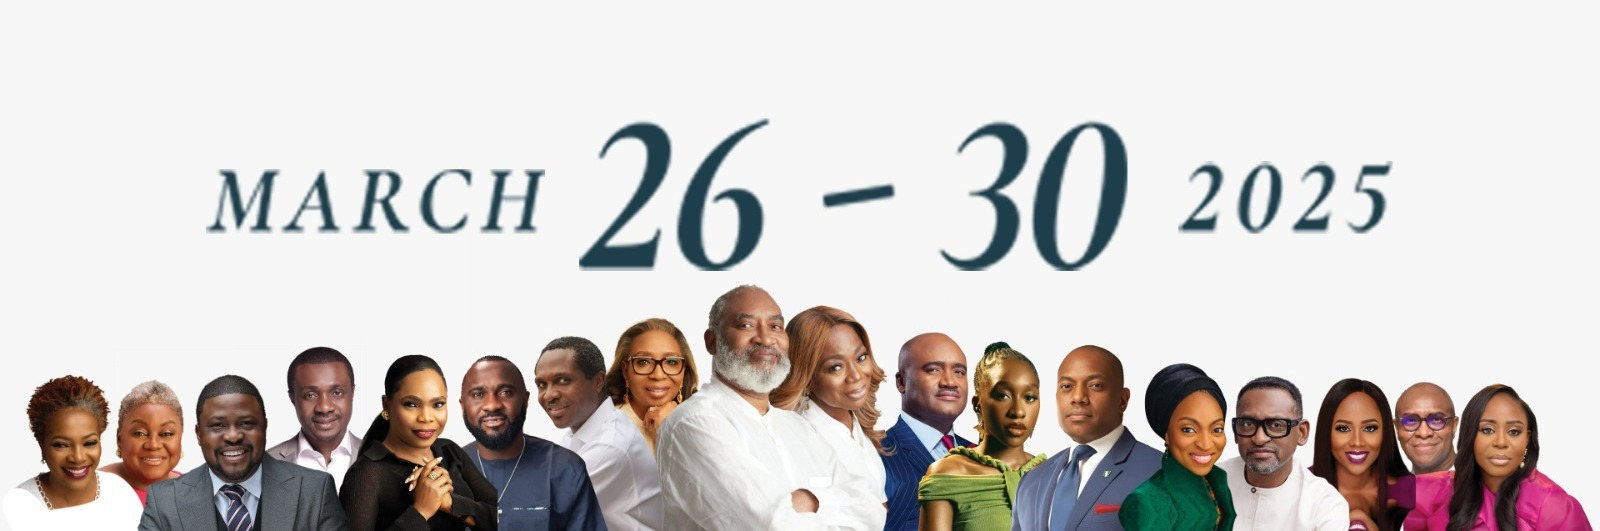
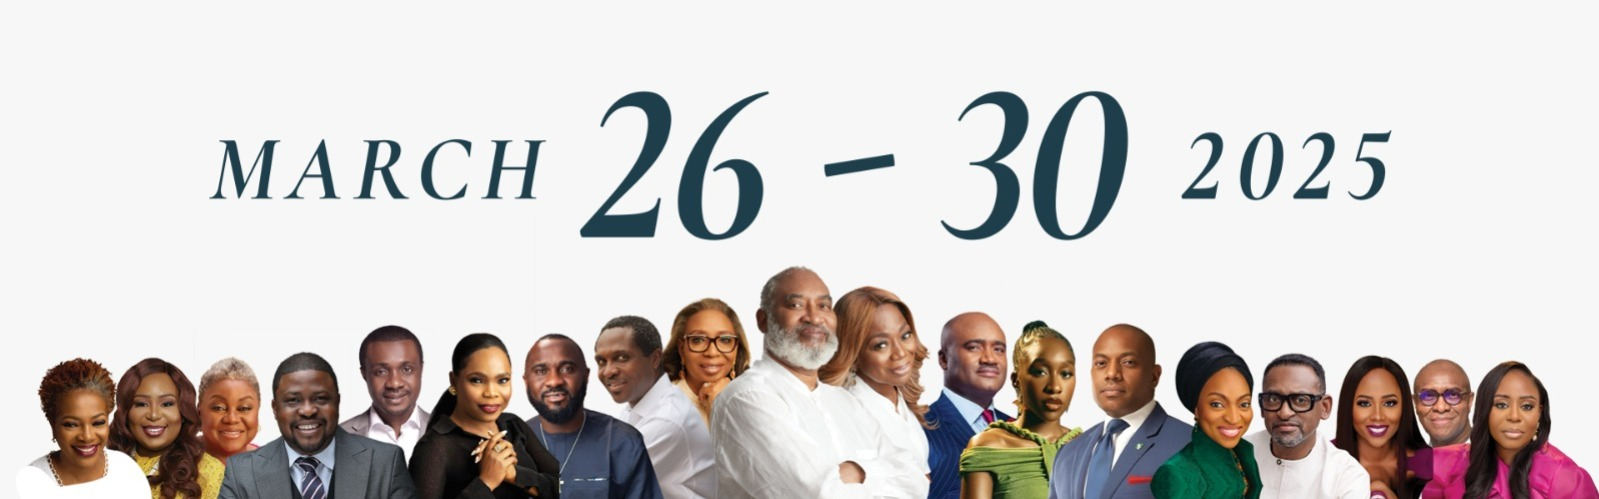
final updates

diff --git a/src/utils/data.tsx b/src/utils/data.tsx
@@ -58,7 +58,7 @@ export const scheduleArray = [
     time: "6:00",
     topic: "Leadership Summit ",
     speaker1: "Tonye Cole",
-    speaker2: "Dr Jumoke Oduwole",
+    speaker2: "Dr. Jumoke Oduwole",
     speaker3: "Pastor Yemi Adefarasin",
     speaker4: "Fela Durotoye",
     speaker5: "Pastor Yemi Davids",
@@ -91,7 +91,7 @@ export const scheduleArray = [
     time: "9:30",
     topic: "Charge for the Next 40 Years ",
     speaker1: "Pastor Wale Adefarasin",
-    speaker2: "Nathaniel Bassey ",
+    speaker2: "Pastor Nathaniel Bassey ",
     gmt: "am",
     date: "March 30th",
   },
@@ -100,7 +100,7 @@ export const scheduleArray = [
 export const ministers = [
   {
     name: "WALE & LAOLU ADEFARASIN",
-    profile_name: "PASTOR WALE & LAOLU ADEFARASIN",
+    profile_name: "PASTORS WALE & LAOLU ADEFARASIN",
     title: "Host",
     bio: "Pastor Wale Adefarasin serves as the General Overseer of Guiding Light Assembly (GLA), which recently celebrated its 40th anniversary. With headquarters in Lagos, Nigeria, he provides spiritual leadership to the ministry alongside his wife, Pastor Olaolu Adefarasin, who serves as a pastor within the same assembly. Pastor Olaolu, called to the Nigerian Bar in 1981, practiced briefly with the law firm of Impey & Coker before answering the call to full-time ministry. Led by the Holy Spirit, she established Morning Glory, a women's prayer ministry that meets every Tuesday morning at 7am and has been active for over twenty years. This ministry operates with a mandate to intercede for Nigeria, children, families, ministries, and individual lives. She also leads OASIS, the GLA women's ministry, which organizes colloquiums, retreats, and activities designed to help women address real-life challenges, particularly those unique to women. Her broader influence extends to her roles as Chair on the board of the Interdenominational Pastor's Wife Forum (IPWF) and as a board member of the Woodhall Capital Foundation. Pastor Wale is known for his leadership and is the author of 'The Succession Crisis in Nigeria.' Together, the Adefarasins have built a ministry focused on spiritual growth and community impact. Their family includes three children and two grandchildren, reflecting their commitment to both ministry and family values.",
     img: img16,
@@ -121,7 +121,7 @@ export const ministers = [
   },
   {
     name: "NATHANIEL BASSEY",
-    profile_name: "NATHANIEL BASSEY",
+    profile_name: "PASTOR NATHANIEL BASSEY",
     title: "Ministering",
     bio: "Pastor Nathaniel Bassey is a renowned Gospel Music Minister from Akwa Ibom State, Nigeria, whose multifaceted talents encompass being a recording artist, trumpet player, singer/songwriter, and music producer. He currently serves as the Pastor of THE OASIS, the Youth Church of RCCG, The King's Court in Lagos, Nigeria.Before answering God's call to full-time music ministry, Pastor Nath built a solid musical foundation as bandleader of the Steve Rhodes Jazz Orchestra and as a member of the Spectrum 4 jazz quintet, among other musical collaborations. At the core of his ministry is the belief that music serves as a fundamental tool in the praise and worship of God, creating a divine connection between God and His people. Through his music, he expresses profound love for God while leading countless individuals to Christ through concerts, crusades, church events, and various kingdom gatherings. His ministry extends beyond performance to mentorship, as he regularly speaks at worship and music seminars globally. Pastor Nath is passionate about inspiring the next generation of worship leaders and gospel musicians, emphasizing his concept of a 'TOTAL AND COMPLETE' music minister balanced in SPIRIT, SKILL, and CHARACTER. His prophetic trumpet sound has become his signature, stirring revival and igniting passion for holiness, godliness, and heartfelt worship throughout the body of Christ. Since his debut album 'ELOHIM' recorded in 2008 in Cape Town, South Africa, Pastor Bassey has released multiple influential projects: 'THE SON OF GOD' (2014), 'THIS GOD IS TOO GOOD' (2016), 'REVIVAL FLAMES' (2017), 'JESUS: THE RESURRECTION AND THE LIFE' (2018), 'THE KING IS COMING' (2019), and 'HALLELUJAH AGAIN' (2021). His most recent work, 'THE NAMES OF GOD,' a 15-track album of Prophetic Chants, High Praise, Adoration, Psalms, Hymns, and Spiritual songs recorded live in November 2021, has become a powerful worship resource for believers worldwide. In June 2017, he initiated the 'HALLELUJAH CHALLENGE,' an online praise and prayer gathering that continues to attract thousands of global participants. Pastor Nathaniel Bassey resides in Lagos, Nigeria, with his wife and children.",
     img: img8,
@@ -163,7 +163,7 @@ export const ministers = [
   },
   {
     name: "JUMOKE ODUWOLE",
-    profile_name: "DOCTOR JUMOKE ODUWOLE",
+    profile_name: "DR. JUMOKE ODUWOLE",
     title: "Speaking",
     bio: "Dr. Jumoke Oduwole is a distinguished academic, policy advisor, and advocate currently serving as a Senior Fellow at the Harvard Kennedy School of Government's Mossavar-Rahmani Center for Business and Government. From August 2019 to May 2023, she served as Special Adviser to the President of Nigeria on Ease of Doing Business, following her role as Senior Special Assistant to the President on Industry, Trade & Investment in the Office of the Vice President. Under her leadership, Nigeria achieved a remarkable 39-place improvement in the World Bank's Doing Business Report over a three-year period. Dr. Oduwole is on leave from her position as Senior Lecturer in the Department of Jurisprudence and International Law at the University of Lagos. Her expertise has earned her recognition as a global thought leader, including being the sole African nominee to the World Economic Forum's Global Future Council on Trade and Investment in 2016. Before entering academia, she built a solid career in finance, leading a corporate banking unit within the telecommunications sector at Guaranty Trust Bank Plc and working as an investment banker with FCMB Capital Markets Ltd from 2000 to 2003. Her academic credentials include a law degree from the University of Lagos (1998), an LL.M. in commercial law from Cambridge University as a DFID-Cambridge Commonwealth Trust Scholar (2000), and both a master's in International Legal Studies and a doctorate in International Trade and Development from Stanford Law School. Dr. Oduwole's board service includes positions with Ecobank Nigeria Plc, Positive Action for Treatment Access, and the 'Know Your Constitution' Initiative. She currently serves as a Trustee of the Mandela Institute for Development Studies and is a Tutu Fellow of the African Leadership Institute. She is married to Tunde Oduwole and is the mother of two children.",
     img: img14,
@@ -198,7 +198,7 @@ export const ministers = [
   },
   {
     name: "CHINGTOK ISHAKU",
-    profile_name: "CHINGTOK ISHAKU",
+    profile_name: "PASTOR CHINGTOK ISHAKU",
     title: "Speaking",
     bio: "Apostle Chingtok Ishaku is the Founder and Senior Pastor of The God–Life Assembly International, which has its headquarters in Jos, Plateau State and branches in 6 other cities across Nigeria. He is an astute teacher of the Bible whose infallible passion lies in his desire “to see the body of Christ enter into the fullness of the truth of the Gospel and become accurate witnesses of the full stature of Jesus, as we take the kingdoms of this world and submit them to our God and his Christ”. His deepest desire is to raise men and women who have genuine fellowship with God and represent Him accurately through their obedience in lifestyle, in ministry, in character, in business, in career, in response to the Holy Spirit and in the out-working of His power. He founded the Pathfinders School of Ministry and Pathfinders School of Leadership which aim at raising believers who will dare to walk away from the norm to find their God-ordained paths and modes of operation in ministry and in every other sphere of their lives. Pastor Chingtok has spearheaded projects like Project 7000, an online call to prayer for 7,000 Nigerians; Kingdom Advance; The Whole Truth (Lagos, Jos, Abuja, Port Harcourt, Minna, Abakiliki); Zaria Praise Festival, The God – Life Assembly Annual Camp Meeting, and The New Nation Conference (which is hinged on the “If my People Prayer Tour” by Pastor Chris Delvan, aimed at bringing prophecies about Nigeria to pass). Pastor Chingtok is submitted to the ministry and leadership of Pastor Chris Delvan Gwamna who is the Founder and Senior Pastor of The King of All Kings Church of The Capstone. Together, they have run projects in various parts of Nigeria, whose focus is to exalt Christ and His lordship over Nigeria and all the nations of the earth; and to conform men to the image of Jesus, bringing worship to God in everything they do. Pastor Chingtok is also a deep worshipper and psalmist with seven albums in his library titled: The Worship Expressions Series which contains True of You (2011), The Eternal God (2016), The Living Word (2018), Our God Reigns (2018), Zuciyata (2019), Overflow (2022), and The Bridge (2022). He insists on God’s pattern of building Church into a family according to Scripture as seen in the Acts of the Apostles and believes that everyone God sends to him is his family. He is married to Pastor Sarah Chingtok, and they are blessed with 3 children.",
     img: img12,
@@ -306,3 +306,9 @@ export const linkArray = [
   { url: "CFNbivZ0_jo" },
   { url: "hQq4w7O3ORA" },
 ];
+
+export const headerNav = [
+  {name: 'Schedule'},
+  {name: 'Ministers'},
+  {name: 'Gallery'},
+]

diff --git a/src/components/Layout/Header/index.tsx b/src/components/Layout/Header/index.tsx
@@ -1,9 +1,129 @@
-import React from 'react'
+import React, { useEffect, useState } from "react";
+import logo from "../../../assets/icons/logo.png";
+import menu_icon from "../../../assets/icons/menu.png";
+import { headerNav } from "../../../utils/data";
+import cancel_icon from "../../../assets/icons/cancell.png";
 
-const Header = () => {
+type HeaderProps = {
+  ScheduleClick: () => void;
+  MinistersClick: () => void;
+  HomeClick: () => void;
+  GalleryClick: () => void;
+};
+
+const Header: React.FC<HeaderProps> = ({
+  GalleryClick,
+  MinistersClick,
+  ScheduleClick,
+  HomeClick,
+}) => {
+  const [isSticky, setIsSticky] = useState(false);
+  const [showOptions, setShowOptions] = useState(true);
+
+  useEffect(() => {
+    const handleScroll = () => {
+      const scrollPosition = window.pageYOffset;
+
+      if (scrollPosition > 0) {
+        setIsSticky(true);
+      } else {
+        setIsSticky(false);
+      }
+    };
+
+    window.addEventListener("scroll", handleScroll);
+  }, []);
+
   return (
-    <div>Header</div>
-  )
-}
+    <div className="flex flex-col">
+      <div
+        className={`header-content sticky z-[999] bg-white outfit rounded-b-[15px] px-[10px] xs:px-[20px] sm:px-[40px] lg:px-[60px] shadow ${
+          isSticky
+            ? "flex justify-between items-center h-[90px] xs:h-[100px]"
+            : " flex justify-between items-center h-[90px] xs:h-[100px]"
+        } `}
+      >
+        <div className="text-[30px] xs:text-[36px] cursor-pointer sm:text-[40px] Montserrat">
+          <div>
+            <img
+              onClick={HomeClick}
+              className="h-[70px] w-[70px]"
+              src={logo}
+              alt="/"
+            />
+          </div>
+        </div>
 
-export default Header
+        <div className="hidden xs:flex gap-5 text-[14px] sm:text-[16px] krona-one">
+          <p onClick={ScheduleClick} className="cursor-pointer">
+            Schedule
+          </p>
+          <p onClick={MinistersClick} className="cursor-pointer">
+            Ministers
+          </p>
+          <p onClick={GalleryClick} className="cursor-pointer">
+            Gallery
+          </p>
+        </div>
+
+        <div className="flex xs:hidden">
+          <img
+            onClick={() => setShowOptions(!showOptions)}
+            src={menu_icon}
+            alt=""
+          />
+        </div>
+      </div>
+
+      {showOptions && (
+        <>
+          <div className=" fixed top-0 left-0 w-full h-full z-[999] flex items-center justify-center">
+            {/* <LogoutModal onClose={() => setShowLogoutModal(false)} /> */}
+            <div className="h-[220px] w-[90%] krona-one bg-white border border-[#e99827] rounded-[20px] shadow flex flex-col gap-2 items-center justify-center p-2">
+              <div className="flex justify-end w-full">
+                <div>
+                  <img
+                    onClick={() => setShowOptions(false)}
+                    src={cancel_icon}
+                    alt=""
+                  />
+                </div>
+              </div>
+
+              <p
+                onClick={() => {
+                  ScheduleClick();
+                  setShowOptions(false);
+                }}
+                className="bg-[#e99827cd] cursor-pointer rounded-[4px] w-full flex justify-center text-[19px] py-2"
+              >
+                Schedule
+              </p>
+              <p
+                onClick={() => {
+                  MinistersClick();
+                  setShowOptions(false);
+                }}
+                className="bg-[#e99827cd] cursor-pointer rounded-[4px] w-full flex justify-center text-[19px] py-2"
+              >
+                Ministers
+              </p>
+              <p
+                onClick={() => {
+                  GalleryClick();
+                  setShowOptions(false);
+                }}
+                className="bg-[#e99827cd] cursor-pointer rounded-[4px] w-full flex justify-center text-[19px] py-2"
+              >
+                Gallery
+              </p>
+            </div>
+          </div>
+          <div className="fixed w-screen h-screen bg-[#000000a6] top-0 left-0" />
+        </>
+      )}
+    </div>
+  );
+};
+
+export default Header;

diff --git a/src/pages/HomePage/index.tsx b/src/pages/HomePage/index.tsx
@@ -1,4 +1,4 @@
-import React from "react";
+import React, { useRef } from "react";
 import Layout from "../../components/Layout";
 import Banner from "./Banner";
 import SectionOne from "./sectionOne";
@@ -8,16 +8,76 @@ import SectionFour from "./sectionFour";
 import SectionFive from "./sectionFive";
 import SectionSix from "./sectionSix";
 import SectionSeven from "./sectionSeven";
+import Header from "../../components/Layout/Header";
 
 const HomePage = () => {
+  const Gallery = useRef(null);
+  const ministers = useRef(null);
+  const schedule = useRef(null);
+  const home = useRef(null);
+
+  const handleGallery = () => {
+    if (Gallery.current) {
+      (
+        Gallery.current as {
+          scrollIntoView: (options: ScrollIntoViewOptions) => void;
+        }
+      ).scrollIntoView({ behavior: "smooth" });
+    }
+  };
+
+  const handleMinisters = () => {
+    if (ministers.current) {
+      (
+        ministers.current as {
+          scrollIntoView: (options: ScrollIntoViewOptions) => void;
+        }
+      ).scrollIntoView({ behavior: "smooth" });
+    }
+  };
+
+  const handleSchedule = () => {
+    if (schedule.current) {
+      (
+        schedule.current as {
+          scrollIntoView: (options: ScrollIntoViewOptions) => void;
+        }
+      ).scrollIntoView({ behavior: "smooth" });
+    }
+  };
+
+  const handleHome = () => {
+    if (home.current) {
+      (
+        home.current as {
+          scrollIntoView: (options: ScrollIntoViewOptions) => void;
+        }
+      ).scrollIntoView({ behavior: "smooth" });
+    }
+  };
+
   return (
     <Layout>
+      <div ref={home}>
+        <Header
+          HomeClick={() => handleHome()}
+          GalleryClick={() => handleGallery()}
+          MinistersClick={() => handleMinisters()}
+          ScheduleClick={() => handleSchedule()}
+        />
+      </div>
       <Banner />
       {/* <SectionOne /> */}
-      <SectionTwo />
-      <SectionThree />
+      <div ref={ministers}>
+        <SectionTwo />
+      </div>
+      <div ref={Gallery}>
+        <SectionThree />
+      </div>
       <SectionFour />
-      <SectionFive /> 
+      <div ref={schedule}>
+        <SectionFive />
+      </div>
       <SectionSix />
       <SectionSeven />
     </Layout>

diff --git a/src/pages/HomePage/Banner.tsx b/src/pages/HomePage/Banner.tsx
@@ -4,7 +4,7 @@ import { useNavigate } from "react-router-dom";
 import AxiosInstance from "../../api/axios";
 import Countdown from "../../components/CountDown";
 import { textList } from "../../utils/data";
-import banner_img from "../../assets/img/Header Title.png";
+import banner_img from "../../assets/img/header.png";
 import banner40 from "../../assets/icons/banner40Star.png";
 
 const Banner = () => {
@@ -37,7 +37,7 @@ const Banner = () => {
   const targetDate = new Date("2025-03-26T00:00:00");
 
   return (
-    <div className="pb-7 border-[#e99827] border-b-[10px] wallpaper pt-28 flex flex-col items-center ">
+    <div className="pb-7 border-[#e99827] border-b-[10px] wallpaper pt-44 flex flex-col items-center ">
       <div>
         <img className="h-[130px] w-[130px]" src={logo} alt="/" />
       </div>
@@ -49,7 +49,7 @@ const Banner = () => {
             <img className="h-[350px] xs:h-[450px] md:h-[550px] " src={banner40} alt="/" />
           </div>
 
-          <div className="w-full md:w-[700px] flex justify-center sm:justify-between items-center">
+          <div className="w-full md:w-[700px] flex justify-center sm:justify-between items-center mt-5">
             <img src={banner_img} className="" alt="/" />
           </div>
         </div>

diff --git a/src/pages/HomePage/sectionFour.tsx b/src/pages/HomePage/sectionFour.tsx
@@ -273,7 +273,9 @@ const SectionFour = () => {
             <div
               onClick={() => handleItemClick(items)}
               key={items.url}
-              className="cursor-pointer h-2 w-4 rounded-[20px] bg-[#13243a]"
+              className={`cursor-pointer h-2 w-4 rounded-[20px] ${
+                selectedItem && selectedItem.url === items.url ? 'bg-[#eec48a]' : 'bg-[#13243a]'
+              }`}
             />
           ))}
         </div>

diff --git a/src/components/Layout/index.tsx b/src/components/Layout/index.tsx
@@ -25,7 +25,6 @@ const Layout: React.FC<LayoutProps> = ({ children }) => {
 
   return (
     <div ref={homes} className="Axiforma flex flex-col">
-      {/* <Header/> */}
       <main>{children}</main>
       <div>
         <Footer />

diff --git a/src/App.css b/src/App.css
@@ -127,3 +127,10 @@ html {
     transform: translateX(-20%); /* Scroll to the end of the first half */
   }
 }
+
+
+.sticky {
+  position: fixed;
+  top: 0;
+  width: 100%
+}
